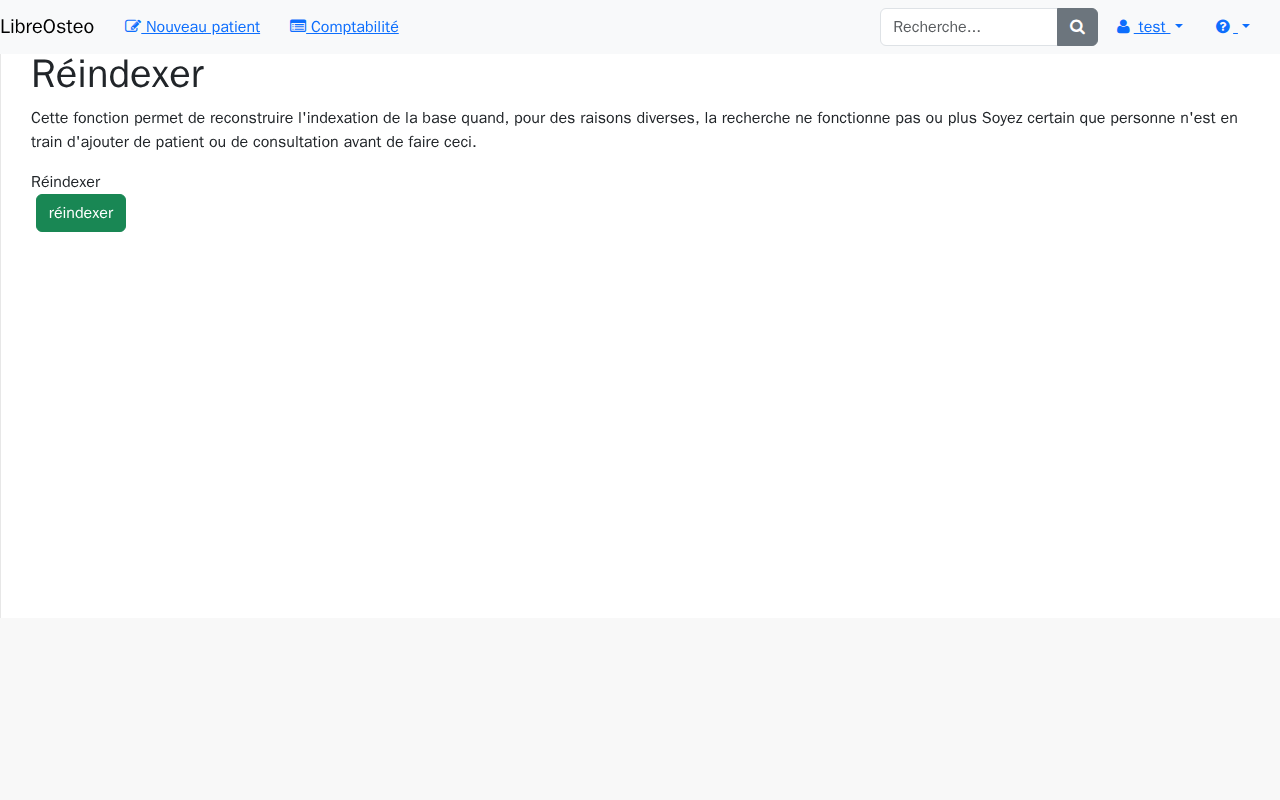
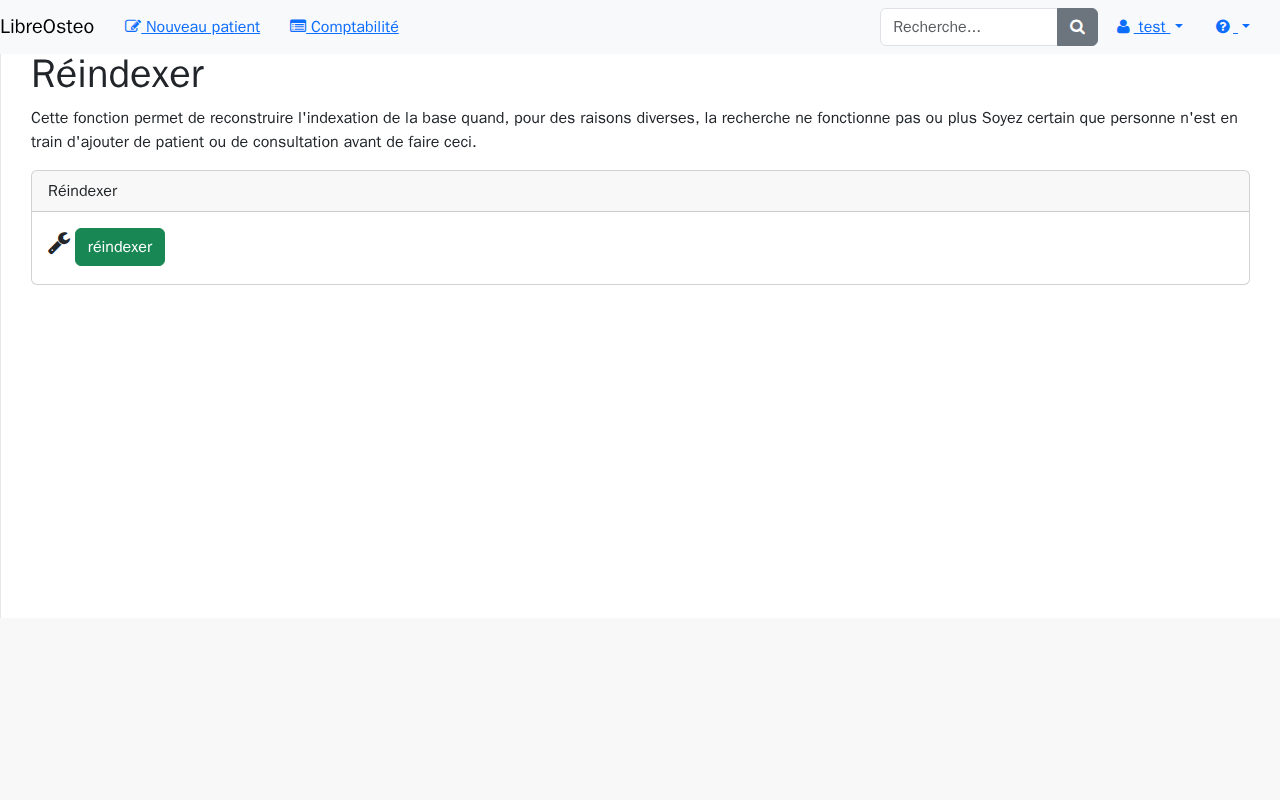
refactor: basculer pages/reindexation.html sur Bootstrap 5 (D6g T7)
6 occurrences (mesure a jour ; la brief en portait 5 - fa-wrench-o, ajoute a la table
par T1, n'y etait pas compte) -> 0. page-header disparait sans equivalent ; panel,
panel-default, panel-heading, panel-body deviennent card, card, card-header, card-body ;
fa-wrench-o (icone inexistante en FA4, invisible avant ce commit) devient fa-wrench.

Verifie et laisse : le <p> d'avertissement, enfant direct de .row sans classe col-*,
rendu identique a l'octet pres au wrap d'avant (piege du .row du patron, ecarte apres
comparaison des captures).

Garde outils/tests/test_rupture_bs5.py mise a jour dans ce commit : reindexation.html
etait le seul porteur de fa-wrench-o (AJOUTS_DE_T1, D6g T1).

grep Python (widget.attrs) : aucune classe morte dans
libreosteoweb/api/views/pages/reindexation.py.

Tests : outils/tests/test_rupture_bs5.py (5), tests/functional/test_recherche.py (5),
libreosteoweb/tests/test_page_reindexation.py (5) - tous verts.

Orphelinage libreosteo.css : delta vide (28 selecteurs orphelins avant et apres,
liste identique).

Collaterale declaree, non restauree : docs/recette/captures/d6g/recherche-1280.png
(bruit de rasterisation documente dans capture_socle_visuel.py, search.html non
touche par cette tache).

Changed region(s): [[0.0, 0.2188, 0.1562, 0.3438]]

diff --git a/libreosteoweb/templates/pages/reindexation.html b/libreosteoweb/templates/pages/reindexation.html
@@ -18,19 +18,23 @@
 
 {% block contenu %}
 <div id="page-wrapper">
-    <h1 class="page-header" data-testid="titre-reindexation">
+    {# D6g T7 : page-header disparait sans equivalent (comme T6, T12, T13). #}
+    <h1 data-testid="titre-reindexation">
         {% trans 'Rebuild index' %}
     </h1>
     <div class="row">
+    {# D6g T7 : `<p>` reste enfant direct de `.row` sans classe `col-*`, comme avant. #}
+    {# Verifie contre le piege du `.row` (patron du lot) : capture a 1280 px comparee #}
+    {# a celle d'avant T7, meme retour a la ligne, aucun chevauchement avec le panneau. #}
     <p>{% blocktrans %}This function helps to rebuild index when for different reason, searching does not work.
         Be sure that no body is adding new patient and examination before to do that.{% endblocktrans %}</p>
         <div class="col-md-12">
-            <div class="panel panel-default">
-                <div class="panel-heading">{% trans 'Rebuild index' %}</div>
-                <div class="panel-body">
+            <div class="card">
+                <div class="card-header">{% trans 'Rebuild index' %}</div>
+                <div class="card-body">
                     <div class="row">
                         <div class="col-md-3">
-                            <i style="font-size:24px" class="fa fa-wrench-o"></i>
+                            <i style="font-size:24px" class="fa fa-wrench"></i>
                             {# `hx-disabled-elt="this"` desactive le bouton pendant la #}
                             {# requete : la reindexation est synchrone et tient la #}
                             {# connexion, un second lancement concurrent n'a aucun sens. #}

diff --git a/outils/tests/test_rupture_bs5.py b/outils/tests/test_rupture_bs5.py
@@ -59,7 +59,8 @@ AJOUTS_DE_T1 = {
     "badge-info": ("text-bg-info", 0),
     # 3 au 2026-09-19 (T1) ; repris par D6g T15 (document-edition.html).
     "fa-1": (None, 0),
-    "fa-wrench-o": ("fa-wrench", 1),
+    # 1 au 2026-09-19 (T1) ; repris par D6g T7 (reindexation.html, son seul porteur).
+    "fa-wrench-o": ("fa-wrench", 0),
 }
 
 
@@ -91,10 +92,11 @@ def test_la_mesure_du_depot_pese_les_occurrences_de_ces_sept_jetons() -> None:
     documents de compte ; **8** depuis D6g T3, qui a repris `well-md` (register.html,
     restore.html) et `badge-info` (menu.html) ; **6** depuis D6g T13, qui a repris deux
     des trois sites de `left` (`evenement.html`, `evenements-page.html`) -- le troisieme,
-    hors de son ecran, reste a reprendre.
+    hors de son ecran, reste a reprendre ; **5** depuis D6g T7, qui a repris
+    `fa-wrench-o` (reindexation.html, son seul porteur).
     """
     jetons, _ = occurrences(RACINE / "libreosteoweb" / "templates")
     releve = {jeton: jetons[jeton] for jeton in AJOUTS_DE_T1}
 
     assert releve == {jeton: n for jeton, (_, n) in AJOUTS_DE_T1.items()}
-    assert sum(releve.values()) == 2
+    assert sum(releve.values()) == 1

diff --git a/docs/recette.md b/docs/recette.md
@@ -3972,12 +3972,34 @@ et `reindexation-375.png`.
 
 **Étapes**
 
-1. Menu utilisateur → *Reconstruire l'index*, fenêtre à **1 280 px de large**.
-   Attendu : <écrit par T7>
+1. Se connecter avec un compte `is_staff` (le compte du socle en dispose), menu
+   utilisateur → *Reconstruire l'index*, fenêtre à **1 280 px de large**.
+   Attendu : le titre **« Réindexer »** est entièrement visible sous la barre de
+   navigation. En dessous, le paragraphe d'avertissement (« Cette fonction permet de
+   reconstruire l'indexation… ») s'étend sur toute la largeur, au-dessus de la carte, sans
+   chevauchement ni avec le titre ni avec la carte. La carte affiche un en-tête gris clair
+   **« Réindexer »** puis, dans son corps, une icône de clé à molette suivie du bouton vert
+   **« réindexer »**, sur une seule ligne ; à droite du bouton, les deux zones destinées au
+   bandeau de résultat et à l'indicateur de chargement restent vides et invisibles avant
+   tout clic. Aucune barre de défilement horizontale. Dans la barre, à droite, les trois
+   entrées **test**, **?** et le champ **Recherche…** restent atteignables au clic, comme
+   décrit en R-VIS-03.
 2. Ramener la fenêtre à **375 px de large**.
-   Attendu : <écrit par T7>
+   Attendu : la barre de navigation se replie derrière le bouton hamburger, comme décrit en
+   R-VIS-03. Le titre, le paragraphe d'avertissement et la carte restent entièrement
+   visibles, la carte s'étirant sur toute la largeur disponible ; aucune barre de
+   défilement horizontale.
 
-**Ne couvre pas** : <écrit par T7>
+**Ne couvre pas** : l'état affiché **après** le clic sur « réindexer » — le bandeau de
+résultat (« Terminé » ou « Échoué ») que `pages/fragments/reindexation-resultat.html`
+renvoie par htmx. Les deux captures de référence montrent l'état **avant** ce clic : le
+script `tests/functional/capture_socle_visuel.py` ne déclenche pas l'action, et cette fiche
+ne le modifie pas. Le rendu du bandeau, sans classe de socle à reprendre (le fragment ne
+porte aucun jeton de l'annexe A), et le geste lui-même sont couverts par
+`tests/functional/test_recherche.py::test_reconstruction_de_l_index_depuis_le_menu`
+(fiche `R-RCH-02`). Ni le détail du bandeau et du menu utilisateur, qui appartiennent au
+socle commun et se recettent en R-VIS-03 — cette fiche n'en vérifie que la présence et
+l'atteignabilité sur cet écran précis.
 
 ### R-VIS-07 — Socle visuel : première installation
 
